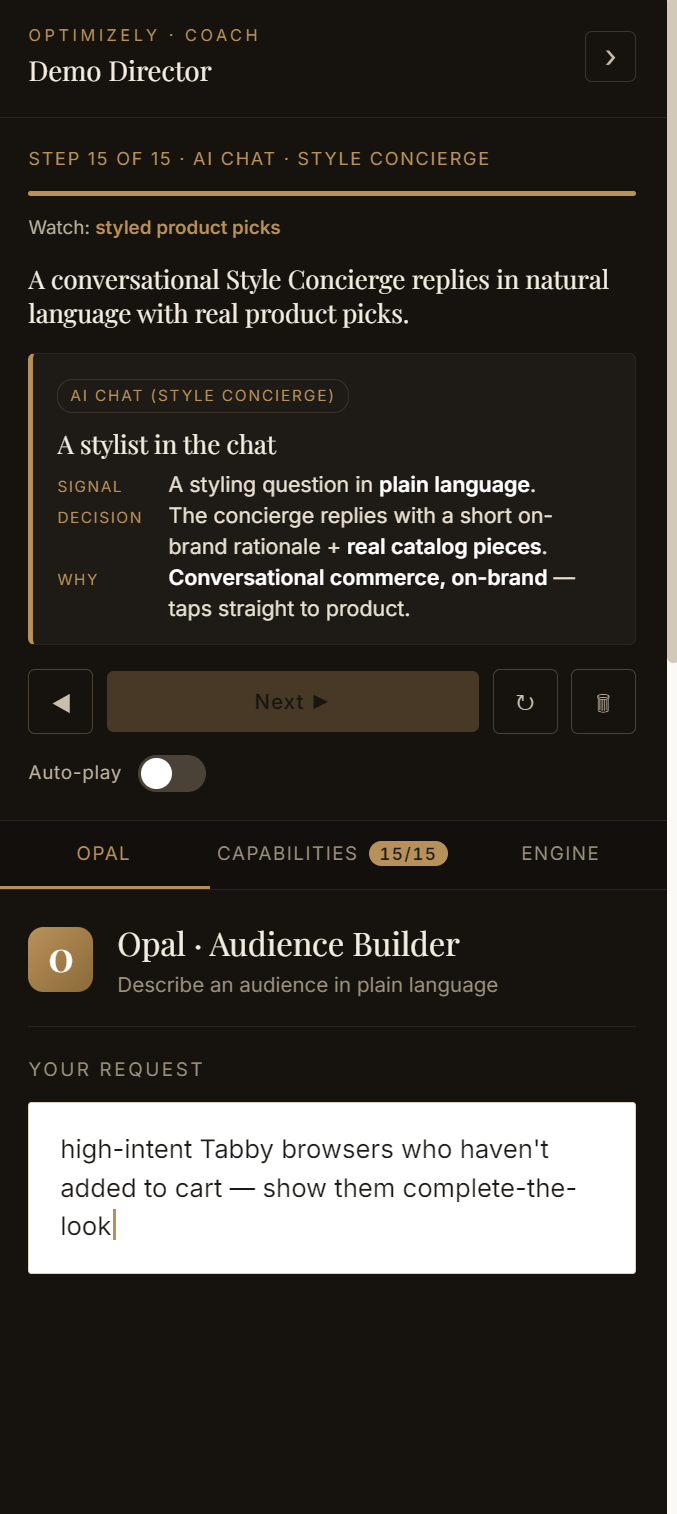
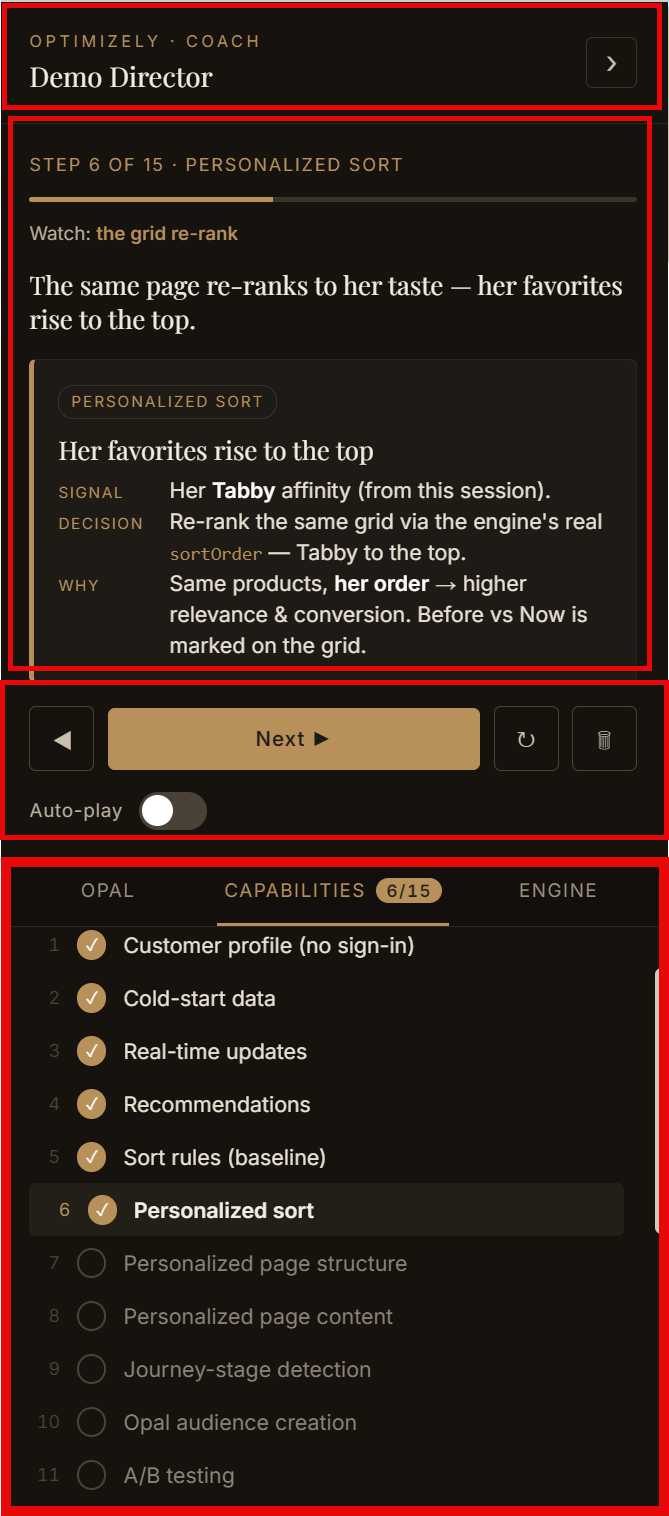
z104

diff --git a/src/routes/aiScene.ts b/src/routes/aiScene.ts
@@ -1,78 +1,22 @@
 /**
  * /ai/scene — styled editorial scenes for AI Search + the Style Concierge.
  *
- * The HEADLINE demo queries are pre-generated to static assets (scripts/pregen-scenes.mjs →
- * /images/generated/<key>.jpg, instant on stage). THIS route is the robustness path for any
- * NOVEL query: it generates a scene on demand from the REAL product shot and caches it in R2,
- * so the second ask is instant and the system never "looks like idiots" on an unrehearsed prompt.
+ * Headline/occasion queries are pre-generated (static assets + the occasion×SKU grid). THIS route is
+ * the robustness path for any NOVEL query. It is ASYNC by default: on a cache miss it ENQUEUES a
+ * background job (Cloudflare Queue) and returns instantly — the request never blocks on the ~8s
+ * generation. The queue consumer runs generateSceneToR2 and stores the bytes in R2; the client polls
+ * the GET endpoint until ready (and the scene is cached for everyone after). Pass {sync:true} to
+ * generate inline (used by pre-warm / validation tooling).
  *
- *   GET  /ai/scene/:productId/:sceneId   — serve the cached scene bytes from R2 (404 on miss)
- *   POST /ai/scene  { productId, sceneId, type, sceneContext, aspect }
- *                                        — cache-first; on miss, send the real on-white product
- *                                          image as a REFERENCE to Gemini "nano banana", store the
- *                                          result in R2, return its GET url. Never throws to the
- *                                          client — on any failure returns { ok:false } so the UI
- *                                          falls back to the (already-real) ranked grid / cards.
- *
- * Reference-image → scene is the whole point: only the multimodal image model keeps the real bag.
+ *   GET  /ai/scene/:productId/:sceneId   — serve the cached scene from R2 (404 until ready)
+ *   POST /ai/scene  { productId, sceneId, type, sceneContext, aspect, sync? }
+ *        → { ok, status: 'ready' | 'queued', url }   (never throws; client falls back to the grid)
  */
 import { Hono } from 'hono';
 import type { Env } from '@/types/env';
-import { getCatalog } from '@/services/CatalogIntent';
+import { generateSceneToR2, r2KeyFor, sceneUrl, slug, type SceneJob } from '@/services/sceneGen';
 
 const scene = new Hono<{ Bindings: Env }>();
-
-const GLAPI = 'https://generativelanguage.googleapis.com/v1beta';
-
-// Same fidelity contract the offline pre-gen uses, so live + pre-genned scenes look consistent.
-const FIDELITY =
-  'CRITICAL: Reproduce the EXACT bag shown in the reference image — identical shape, proportions, ' +
-  'hardware, logo, stitching, color and leather texture. Do NOT redesign, recolor, or restyle the bag. ' +
-  'It must read as the same product, and stay the clear hero of the frame. No people, no faces, no text, ' +
-  'no watermarks, no extra logos.';
-
-const searchHeroPrompt = (name: string, ctx: string) =>
-  `Wide cinematic editorial campaign banner. Place the provided Coach ${name} ${ctx}. ` +
-  `Premium fashion-magazine lighting, shallow depth of field, tasteful real-world props, refined on-brand palette, ` +
-  `generous negative space on the left for a headline, photorealistic. ${FIDELITY}`;
-
-const conciergeLookPrompt = (name: string, ctx: string) =>
-  `Editorial luxury lifestyle photograph, portrait orientation. Style the provided Coach ${name} as the centerpiece of ${ctx}. ` +
-  `Natural premium lighting, curated complementary props, aspirational but believable, photorealistic. ${FIDELITY}`;
-
-const slug = (s: string) => (s || '').toLowerCase().replace(/[^a-z0-9]+/g, '-').replace(/^-+|-+$/g, '').slice(0, 48);
-const r2KeyFor = (productId: string, sceneId: string) => `scene/live/${slug(productId)}__${slug(sceneId)}.jpg`;
-
-function b64ToBytes(b64: string): Uint8Array {
-  const bin = atob(b64);
-  const out = new Uint8Array(bin.length);
-  for (let i = 0; i < bin.length; i++) out[i] = bin.charCodeAt(i);
-  return out;
-}
-
-/** Fetch the real on-white product shot (static asset) as a base64 reference for the image model.
- *  Uses the ASSETS binding (reliable server-side read); falls back to a self-fetch if it's absent.
- *  Guards on content-type because not_found_handling=SPA returns index.html (200) for misses. */
-async function loadReference(env: Env, req: Request, productId: string): Promise<{ data: string; mime: string } | null> {
-  const get = (u: string) => (env.ASSETS ? env.ASSETS.fetch(new Request(u)) : fetch(u));
-  for (const ext of ['jpg', 'png', 'jpeg', 'webp']) {
-    try {
-      const url = new URL(`/images/${productId}.${ext}`, req.url).toString();
-      const r = await get(url);
-      if (!r.ok) continue;
-      const ct = r.headers.get('content-type') || '';
-      if (!ct.startsWith('image/')) continue;   // SPA fallback served index.html → not the asset
-      const buf = new Uint8Array(await r.arrayBuffer());
-      if (!buf.length) continue;
-      let bin = '';
-      for (let i = 0; i < buf.length; i++) bin += String.fromCharCode(buf[i]);
-      return { data: btoa(bin), mime: ext === 'jpg' ? 'image/jpeg' : `image/${ext}` };
-    } catch { /* try next ext */ }
-  }
-  return null;
-}
-
-const sceneUrl = (productId: string, sceneId: string) => `/ai/scene/${encodeURIComponent(productId)}/${encodeURIComponent(sceneId)}`;
 
 // ── GET: serve a cached scene from R2 ────────────────────────────────────────
 scene.get('/:productId/:sceneId', async (c) => {
@@ -82,20 +26,15 @@ scene.get('/:productId/:sceneId', async (c) => {
     const obj = await c.env.STORAGE.get(r2KeyFor(productId, sceneId));
     if (!obj) return c.json({ ok: false, error: 'not cached' }, 404);
     return new Response(obj.body, {
-      headers: {
-        'Content-Type': 'image/jpeg',
-        'Cache-Control': 'public, max-age=31536000, immutable',
-        'X-Scene-Source': 'r2',
-      },
+      headers: { 'Content-Type': 'image/jpeg', 'Cache-Control': 'public, max-age=31536000, immutable', 'X-Scene-Source': 'r2' },
     });
   } catch (e) {
     return c.json({ ok: false, error: e instanceof Error ? e.message : String(e) }, 500);
   }
 });
 
-// ── POST: cache-first generate-on-miss ───────────────────────────────────────
+// ── POST: cache-first; async-enqueue on miss (or sync for pre-warm) ───────────
 scene.post('/', async (c) => {
-  const t0 = Date.now();
   try {
     const body = await c.req.json().catch(() => ({} as any));
     const productId = String(body.productId || '').trim();
@@ -105,47 +44,30 @@ scene.post('/', async (c) => {
     const aspect = typeof body.aspect === 'string' ? body.aspect : type === 'concierge' ? '4:5' : '16:9';
     if (!productId || !sceneContext) return c.json({ ok: false, error: 'productId and sceneContext required' }, 400);
 
-    const key = r2KeyFor(productId, sceneId);
+    const url = sceneUrl(productId, sceneId);
 
-    // 1) cache hit → return the GET url immediately
-    const head = await c.env.STORAGE.head(key).catch(() => null);
-    if (head) return c.json({ ok: true, url: sceneUrl(productId, sceneId), cached: true, tookMs: Date.now() - t0 });
+    // 1) already cached → ready immediately
+    const head = await c.env.STORAGE.head(r2KeyFor(productId, sceneId)).catch(() => null);
+    if (head) return c.json({ ok: true, status: 'ready', url, cached: true });
 
-    if (!c.env.GEMINI_API_KEY) return c.json({ ok: false, error: 'image model not configured' });
+    const job: SceneJob = { kind: 'scene', productId, sceneId, type, sceneContext, aspect };
 
-    // 2) resolve the REAL product + its reference shot (server-side → can't be spoofed)
-    const product = getCatalog().find((p) => p.id === productId);
-    if (!product) return c.json({ ok: false, error: 'unknown product' }, 404);
-    const ref = await loadReference(c.env, c.req.raw, productId);
-    if (!ref) return c.json({ ok: false, error: 'no reference image' });
-
-    // 3) generate
-    const prompt = type === 'concierge' ? conciergeLookPrompt(product.name, sceneContext) : searchHeroPrompt(product.name, sceneContext);
-    const model = c.env.GEMINI_IMAGE_MODEL || 'gemini-3.1-flash-image';
-    const r = await fetch(`${GLAPI}/models/${model}:generateContent?key=${c.env.GEMINI_API_KEY}`, {
-      method: 'POST',
-      headers: { 'Content-Type': 'application/json' },
-      body: JSON.stringify({
-        contents: [{ role: 'user', parts: [{ text: prompt }, { inline_data: { mime_type: ref.mime, data: ref.data } }] }],
-        generationConfig: { responseModalities: ['IMAGE'], imageConfig: { aspectRatio: aspect } },
-      }),
-    });
-    if (!r.ok) {
-      const detail = (await r.text().catch(() => '')).slice(0, 180);
-      console.error('ai/scene gen HTTP', r.status, detail);
-      return c.json({ ok: false, error: `image model ${r.status}` });
+    // 2) sync (pre-warm / validation) → generate inline and return when ready
+    if (body.sync) {
+      const res = await generateSceneToR2(c.env, job);
+      return c.json(res.ok ? { ok: true, status: 'ready', url: res.url, cached: res.cached } : { ok: false, error: res.error });
     }
-    const j: any = await r.json();
-    const part = (j?.candidates?.[0]?.content?.parts || []).map((x: any) => x.inlineData || x.inline_data).find((x: any) => x?.data);
-    if (!part?.data) return c.json({ ok: false, error: `no image (finish=${j?.candidates?.[0]?.finishReason})` });
 
-    // 4) cache in R2 and return the GET url
-    const bytes = b64ToBytes(part.data);
-    await c.env.STORAGE.put(key, bytes, {
-      httpMetadata: { contentType: 'image/jpeg', cacheControl: 'public, max-age=31536000, immutable' },
-      customMetadata: { productId, sceneId, type, model },
-    });
-    return c.json({ ok: true, url: sceneUrl(productId, sceneId), cached: false, tookMs: Date.now() - t0 });
+    // 3) async (default) → enqueue a background job, return instantly; client polls the GET url.
+    try {
+      await c.env.EVENT_QUEUE.send(job);
+      return c.json({ ok: true, status: 'queued', url });
+    } catch (e) {
+      // Queue unavailable → fall back to inline generation so the scene still caches.
+      console.error('ai/scene enqueue failed, generating inline:', e);
+      const res = await generateSceneToR2(c.env, job);
+      return c.json(res.ok ? { ok: true, status: 'ready', url: res.url, cached: res.cached } : { ok: false, error: res.error });
+    }
   } catch (e) {
     console.error('ai/scene error:', e);
     return c.json({ ok: false, error: e instanceof Error ? e.message : String(e) });

diff --git a/src/services/sceneGen.ts b/src/services/sceneGen.ts
@@ -1,0 +1,119 @@
+/**
+ * sceneGen — shared styled-scene generation (used by the /ai/scene route AND the queue consumer).
+ *
+ * A novel query's scene is generated from the REAL product shot via gemini-3.1-flash-image and
+ * cached in R2. The route ENQUEUES this work (returns instantly, never blocks the request); the
+ * queue consumer runs generateSceneToR2 in the background. Either way the bytes land in R2 under a
+ * stable key, so the GET endpoint serves it and every later ask is instant. Idempotent: a cache
+ * hit short-circuits, so duplicate jobs are safe.
+ */
+import type { Env } from '@/types/env';
+import { getCatalog } from '@/services/CatalogIntent';
+
+const GLAPI = 'https://generativelanguage.googleapis.com/v1beta';
+// Host is ignored by the ASSETS binding (it matches on path) — a constant base works in the
+// queue consumer where there is no incoming Request.
+const ASSET_BASE = 'https://assets.local';
+
+const FIDELITY =
+  'CRITICAL: Reproduce the EXACT bag shown in the reference image — identical shape, proportions, ' +
+  'hardware, logo, stitching, color and leather texture. Do NOT redesign, recolor, or restyle the bag. ' +
+  'It must read as the same product, and stay the clear hero of the frame. No people, no faces, no text, ' +
+  'no watermarks, no extra logos.';
+
+const searchHeroPrompt = (name: string, ctx: string) =>
+  `Wide cinematic editorial campaign banner. Place the provided Coach ${name} ${ctx}. ` +
+  `Premium fashion-magazine lighting, shallow depth of field, tasteful real-world props, refined on-brand palette, ` +
+  `generous negative space on the left for a headline, photorealistic. ${FIDELITY}`;
+
+const conciergeLookPrompt = (name: string, ctx: string) =>
+  `Editorial luxury lifestyle photograph, portrait orientation. Style the provided Coach ${name} as the centerpiece of ${ctx}. ` +
+  `Natural premium lighting, curated complementary props, aspirational but believable, photorealistic. ${FIDELITY}`;
+
+export const slug = (s: string) => (s || '').toLowerCase().replace(/[^a-z0-9]+/g, '-').replace(/^-+|-+$/g, '').slice(0, 48);
+export const r2KeyFor = (productId: string, sceneId: string) => `scene/live/${slug(productId)}__${slug(sceneId)}.jpg`;
+export const sceneUrl = (productId: string, sceneId: string) => `/ai/scene/${encodeURIComponent(productId)}/${encodeURIComponent(sceneId)}`;
+
+function b64ToBytes(b64: string): Uint8Array {
+  const bin = atob(b64);
+  const out = new Uint8Array(bin.length);
+  for (let i = 0; i < bin.length; i++) out[i] = bin.charCodeAt(i);
+  return out;
+}
+
+/** Read the real on-white product shot via the ASSETS binding (no incoming Request needed).
+ *  Guards on content-type (not_found_handling=SPA returns index.html for misses). */
+async function loadReference(env: Env, productId: string): Promise<{ data: string; mime: string } | null> {
+  if (!env.ASSETS) return null;
+  for (const ext of ['jpg', 'png', 'jpeg', 'webp']) {
+    try {
+      const r = await env.ASSETS.fetch(new Request(`${ASSET_BASE}/images/${productId}.${ext}`));
+      if (!r.ok) continue;
+      if (!(r.headers.get('content-type') || '').startsWith('image/')) continue;
+      const buf = new Uint8Array(await r.arrayBuffer());
+      if (!buf.length) continue;
+      let bin = '';
+      for (let i = 0; i < buf.length; i++) bin += String.fromCharCode(buf[i]);
+      return { data: btoa(bin), mime: ext === 'jpg' ? 'image/jpeg' : `image/${ext}` };
+    } catch { /* try next ext */ }
+  }
+  return null;
+}
+
+export interface SceneJob {
+  kind?: 'scene';
+  productId: string;
+  sceneId: string;
+  type: 'search' | 'concierge';
+  sceneContext: string;
+  aspect?: string;
+}
+
+export interface SceneResult { ok: boolean; url?: string; cached?: boolean; error?: string; tookMs?: number; }
+
+/** Generate (if not already cached) the scene and store it in R2. Never throws — returns {ok:false}. */
+export async function generateSceneToR2(env: Env, job: SceneJob): Promise<SceneResult> {
+  const t0 = Date.now();
+  try {
+    const productId = String(job.productId || '').trim();
+    const sceneId = slug(String(job.sceneId || job.type || 'scene'));
+    const type = job.type === 'concierge' ? 'concierge' : 'search';
+    const sceneContext = String(job.sceneContext || '').trim().slice(0, 240);
+    const aspect = typeof job.aspect === 'string' ? job.aspect : type === 'concierge' ? '4:5' : '16:9';
+    if (!productId || !sceneContext) return { ok: false, error: 'productId and sceneContext required' };
+
+    const key = r2KeyFor(productId, sceneId);
+    const head = await env.STORAGE.head(key).catch(() => null);
+    if (head) return { ok: true, url: sceneUrl(productId, sceneId), cached: true, tookMs: Date.now() - t0 };
+
+    if (!env.GEMINI_API_KEY) return { ok: false, error: 'image model not configured' };
+    const product = getCatalog().find((p) => p.id === productId);
+    if (!product) return { ok: false, error: 'unknown product' };
+    const ref = await loadReference(env, productId);
+    if (!ref) return { ok: false, error: 'no reference image' };
+
+    const prompt = type === 'concierge' ? conciergeLookPrompt(product.name, sceneContext) : searchHeroPrompt(product.name, sceneContext);
+    const model = env.GEMINI_IMAGE_MODEL || 'gemini-3.1-flash-image';
+    const r = await fetch(`${GLAPI}/models/${model}:generateContent?key=${env.GEMINI_API_KEY}`, {
+      method: 'POST',
+      headers: { 'Content-Type': 'application/json' },
+      body: JSON.stringify({
+        contents: [{ role: 'user', parts: [{ text: prompt }, { inline_data: { mime_type: ref.mime, data: ref.data } }] }],
+        generationConfig: { responseModalities: ['IMAGE'], imageConfig: { aspectRatio: aspect } },
+      }),
+    });
+    if (!r.ok) { console.error('sceneGen HTTP', r.status, (await r.text().catch(() => '')).slice(0, 160)); return { ok: false, error: `image model ${r.status}` }; }
+    const j: any = await r.json();
+    const part = (j?.candidates?.[0]?.content?.parts || []).map((x: any) => x.inlineData || x.inline_data).find((x: any) => x?.data);
+    if (!part?.data) return { ok: false, error: `no image (finish=${j?.candidates?.[0]?.finishReason})` };
+
+    await env.STORAGE.put(key, b64ToBytes(part.data), {
+      httpMetadata: { contentType: 'image/jpeg', cacheControl: 'public, max-age=31536000, immutable' },
+      customMetadata: { productId, sceneId, type, model },
+    });
+    return { ok: true, url: sceneUrl(productId, sceneId), cached: false, tookMs: Date.now() - t0 };
+  } catch (e) {
+    console.error('generateSceneToR2 error:', e);
+    return { ok: false, error: e instanceof Error ? e.message : String(e) };
+  }
+}

diff --git a/public/storefront.js b/public/storefront.js
@@ -2051,12 +2051,23 @@ class CoachStorefront {
         }
         wrap.innerHTML = '';                                      // 3) graceful — grid only
     }
-    /** POST /ai/scene; resolves to a served scene URL or null (never throws). */
+    /** POST /ai/scene (async queue), then poll the GET url until the background job caches it.
+        Never blocks the page — resolves to a served scene URL, or null so the ranked grid simply stays. */
     async _liveScene(payload) {
         try {
             const res = await fetch('/ai/scene', { method: 'POST', headers: { 'Content-Type': 'application/json' }, body: JSON.stringify(payload) });
             const j = await res.json();
-            return j && j.ok && j.url ? j.url : null;
+            if (!j || !j.ok || !j.url) return null;
+            if (j.status === 'ready' || j.cached) return j.url;             // already cached → instant
+            const deadline = Date.now() + 22000;                            // queued → poll while the shimmer shows
+            while (Date.now() < deadline) {
+                await this.sleep(1300);
+                try {
+                    const r = await fetch(j.url, { method: 'GET', cache: 'no-store' });
+                    if (r.ok && (r.headers.get('content-type') || '').startsWith('image/')) return j.url;
+                } catch { /* keep polling */ }
+            }
+            return null;        // not ready in the window → grid stays; the job still finishes + caches for next time
         } catch { return null; }
     }
     /** Style Concierge "look" — a 4:5 styled scene of the anchor pick, in the chat thread. */

diff --git a/src/index.ts b/src/index.ts
@@ -21,6 +21,7 @@ import { operatorRoutes } from '@/routes/operator';
 import realtimeRoutes from '@/routes/realtime';
 import { aiRoutes } from '@/routes/ai';
 import { aiSceneRoutes } from '@/routes/aiScene';
+import { generateSceneToR2 } from '@/services/sceneGen';
 
 import { routeAgentRequest } from 'agents';
 
@@ -115,12 +116,19 @@ export default {
   queue: async (batch: MessageBatch, env: Env, ctx: ExecutionContext) => {
     for (const message of batch.messages) {
       try {
-        const event = message.body;
-        console.log('Processing queued event:', event);
-        message.ack();
+        const event = message.body as any;
+        if (event && event.kind === 'scene') {
+          // Background styled-scene generation → R2 (so the request path never blocks on ~8s gen).
+          const res = await generateSceneToR2(env, event);
+          console.log(`queue scene ${event.productId}/${event.sceneId}: ${res.ok ? (res.cached ? 'already cached' : `generated ${res.tookMs}ms`) : 'failed: ' + res.error}`);
+          message.ack(); // ack even on a handled failure — no poison loop; client falls back to the grid
+        } else {
+          console.log('Processing queued event:', event);
+          message.ack();
+        }
       } catch (error) {
         console.error('Error processing message:', error);
-        message.retry();
+        message.retry(); // transient/unexpected → retry
       }
     }
   },

diff --git a/docs/PROJECT_LEDGER.md b/docs/PROJECT_LEDGER.md
@@ -72,6 +72,7 @@ DY is a **mature AI personalization product** (Shopping Muse, Experience Search)
 - **🛡 Images bulletproofed — zero possibility of a broken/missing image on stage (user requirement):** audit first (honest): **all 71 products have a real file** (59 `.jpg` + 12 `.png`) and **every `image_url` resolves** on BOTH the server (`src/data`) and client (`public/data`) catalogs — 0 missing, 0 mismatches (the earlier "12 missing" was a `.jpg`-only miscount; the 12 are `.png`, served fine, and `/ai/scene` already probes all extensions). Then hardened so a bad/future image can NEVER fail: every product image renders through `img()`, now backed by a **self-contained branded placeholder data-URI** (`store.PH_IMG` — soft tile gradient + translucent gold serif "C" + "COACH"; no network, can't 404) via a shared `store._imgFail(this)` onerror swap (idempotent, `onerror=null` so no loops). Covers grid tiles, PDP hero, cart, recs, and concierge cards uniformly. Scene images (Edit hero / concierge look) still clear gracefully on error → the real ranked grid/cards remain. Net: every image failure mode degrades to the on-brand placeholder or a clean fallback — **no empty/broken image box can appear**. Verified on prod: markers live, real `.jpg`+`.png` still 200, placeholder renders on-brand. Touched `public/storefront.js` (`PH_IMG`, `img()`, `_imgFail`).
 - **✅ Search proven REAL + curated for certainty (validated on prod):** confirmed the *interactive typed* search runs against the real model end-to-end (not just the scripted beat) — type a query → real `POST /ai/search` (Gemini intent + editorial copy) → ranked real catalog → scene. Hardened the scene matcher to **keyword-first** (literal cue wins over Gemini's wobbly occasion tags) so **curated queries are deterministic** (fixed `"an investment bag"` which previously varied work-tote↔investment), and **dropped the broad catch-all** so genuinely novel queries go **LIVE + vibe-matched** instead of a mismatched stock scene (a "yacht party" no longer showed a candlelit-dinner). New repeatable validator **`scripts/validate-search.mjs`** (`--live` to exercise generation) + catalog **`docs/search-query-catalog.md`**. **Validated on prod (2026-06-26):** Tier A **12/12** search + **6/6** concierge curated queries resolve STABLY to a human-verified pre-genned scene; Tier B novel queries (rooftop engagement / opera / gallery / yacht) live-generated meaningful, product-faithful, campaign-grade scenes (~8–10s, R2-cached). Presenter rule: scripted beats use Tier A (instant, certain); "type anything" = Tier B (pre-warm or narrate the live reveal).
 - **🎉 Occasion × SKU scene grid — SHIPPED + verified (live waits basically gone + product-accurate heroes):** scaled the 14 curated scenes to a **39-scene grid across 13 occasions** (8 existing + 6 new: cocktail, gala, opera, gallery, beach-resort, brunch), each occasion pre-genned for its **top-N ranked hero BAGS** (search N=2, concierge N=1) via `node scripts/pregen-scenes.mjs --grid` → `public/images/generated/grid/*` + `scene-grid.json` (additive; curated `manifest.json` untouched; 25MB static assets). Client matcher is now **product-aware**: `sceneFor(query,intent,type,heroId)` resolves exact-chip → **grid scene for the actual #1 ranked product** (so the Edit hero matches the shopper's personalized hero, not a fixed anchor) → original curated anchor → live → grid. Canonicalized occasion logic (`_deriveOccasion` + `_anchorKey`); broadened keyword vocab (opera/gala/gallery/beach/yacht/brunch/cocktail). Net: **most typed/off-script queries are now instant** (live gen only for genuinely novel occasions, still graceful). **Validated on prod (2026-06-26):** Tier A **18/18** search + **8/8** concierge curated queries INSTANT & STABLE (grid/anchor, several product-accurate `grid·exact`); only deliberately-novel queries (graduation, garden tea party) live-generate. New occasion heroes spot-checked campaign-grade + product-faithful (gala under a chandelier; beach-resort suede hobo on a teak lounger). Catalog/validator updated: `docs/search-query-catalog.md`, `scripts/validate-search.mjs` (grid-aware).
+- **🎉 Async-cache queue — SHIPPED + verified (the request path never blocks on scene gen):** novel-query scene generation moved OFF the request path onto the Cloudflare **Queue** (binding `EVENT_QUEUE`, consumer `events`). Extracted the gen pipeline into `src/services/sceneGen.ts` (`generateSceneToR2`, shared by route + consumer; reads the product ref via the `ASSETS` binding with a constant base, so it works with no incoming Request). `POST /ai/scene` is now ASYNC by default: cache-hit → `{status:'ready'}`; miss → **enqueues a job and returns instantly** (`{status:'queued'}`, ~0.5s); `{sync:true}` generates inline (pre-warm/validator). Consumer (`src/index.ts` queue handler) runs `generateSceneToR2` → R2; acks on handled failure (no poison loop), retries on transient. Client `_liveScene` polls the GET url (non-blocking, ≤22s, graceful → grid stays; scene still caches for next time). **Verified on prod:** async POST returns in ~0.5s, consumer serves the scene in ~15–17s then it's cached forever; sync path ~9s inline. Tuned `wrangler.toml` consumer: `max_batch_timeout` 30→**2s** (+ `max_concurrency=6`, `max_retries=2`) so jobs process promptly. Net: page/grid always instant; the hero fades in via background job; coverage self-fills from real traffic. Validator updated to use `sync:true`.
 - **⚠ Regression caught + fixed (transparency):** the chat integration had silently dropped the `app.route('/operator', …)` mount (the worktree's HEAD-based `index.ts` lacked it) → `/operator/*` (Opal-beat `audiences/suggest` + the demo-reset button) was **404 on prod**. Re-mounted operator; verified `/operator/events/stats` → 200; diffed all route mounts vs the backup → only `/ai` differs (added), nothing else dropped.
 ### 🔵 In progress
 - **Opal chat build** — Gemini + Cloudflare Agents SDK in the sidebar's Opal tab; tools: query D1 (aggregate-then-reason, real) + create Optimizely audience/flag/rule via FX REST (**dry-run during build**; live writes gated). Requires wrangler v3→v4 + React/AI-SDK/agents deps. Working state backed up to scratchpad/backup-pre-chat first.

diff --git a/docs/search-query-catalog.md b/docs/search-query-catalog.md
@@ -72,17 +72,22 @@ occasions instantly — opera/gallery/yacht/cocktail/gala are Tier A now). Genui
 |---|---|
 | `a bag for my college graduation ceremony` | live-generates a graduation scene (~8–10s), then cached |
 | `a whimsical bag for a garden tea party` | live-generates a garden-tea-party scene, then cached |
-| `something for a medieval-themed costume gala` | live (no stock scene fits) |
+
+Both rows above were confirmed LIVE by `validate-search.mjs` on 2026-06-26. Note: any query containing a grid
+keyword (gala, opera, gallery, cocktail, beach/yacht, brunch, work, travel, festival, winter wedding, gift…) is
+Tier A (instant), even in an unusual phrasing — so to *demonstrate* live gen, avoid those words.
 
 Earlier proof scenes (rooftop engagement / opera / gallery / yacht) were all generated live and visually approved
 before being promoted into the grid — they're now **instant** (Tier A).
 
 **Presenter guidance for Tier B:**
-- It takes **~8–10s** to generate. Two ways to play it:
-  - **Pre-warm** (safest): run the exact query once before the session (e.g. `node scripts/validate-search.mjs --live`
-    or just type it in the demo build) — it caches in R2, so on stage it's **instant**.
-  - **Lean in**: type it live and narrate "watch our AI style this exact bag for your occasion, in real time" —
-    the shimmer → reveal is a feature. The ranked product grid appears instantly underneath regardless.
+- The request **never blocks**. The ranked grid/cards are instant; the hero scene is generated as a **background
+  job** (Cloudflare Queue) and fades in when ready (~10–20s for a first-ever novel query), then it's **cached
+  forever** so every later ask (re-type / next shopper) is instant. Two ways to play it:
+  - **Pre-warm** (safest): run the exact query once before the session (`node scripts/validate-search.mjs --live`
+    uses the synchronous path) — it caches in R2, so on stage it's **instant**.
+  - **Lean in**: type it live and narrate "the page is instant — our AI is styling a custom scene in the
+    background" — the grid is fully interactive while the hero fades in.
 - It is **not** 100%-guaranteed per arbitrary query the way Tier A is — that's the trade for "type anything."
   For the scripted, must-land beats, use **Tier A**.
 
